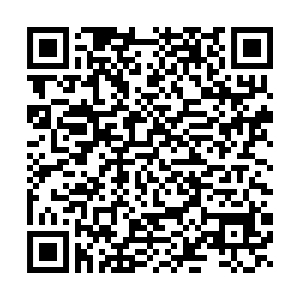
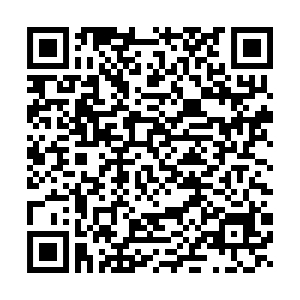
Update README

diff --git a/README.md b/README.md
@@ -52,7 +52,7 @@ FitLink/
 
 ## Demo
 
-**Android APK** — Scan to download or [click here](https://expo.dev/accounts/erickhernandez18s-team/projects/fitlink-app/builds/1c2de330-1191-4356-895f-d72fc8a23b63)
+**Android APK** — Scan to download or [click here](https://expo.dev/accounts/erickhernandez18s-team/projects/fitlink-app/builds/93d87ab8-7691-4594-aa23-644c68b28aad)
 
 <div align="center">
   <img src="img/apkQR.jpg" width="200" alt="QR Code - Download APK">
